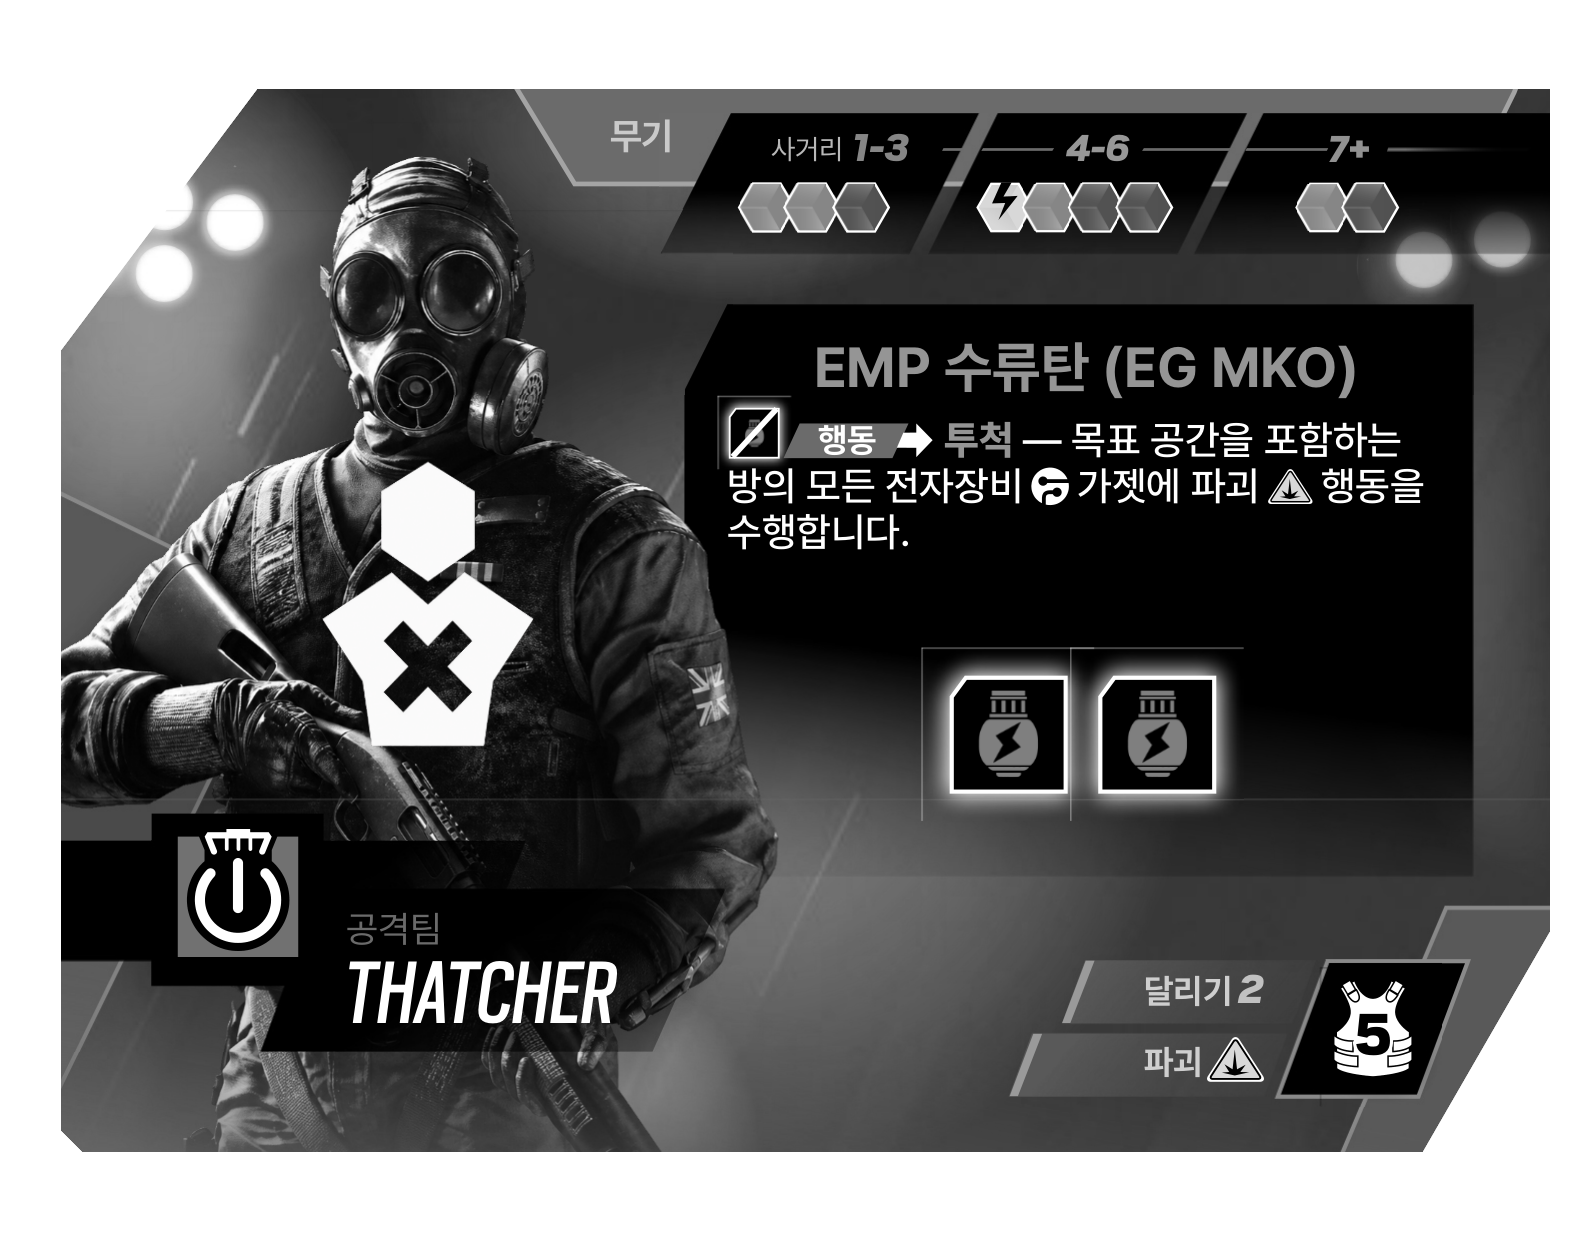
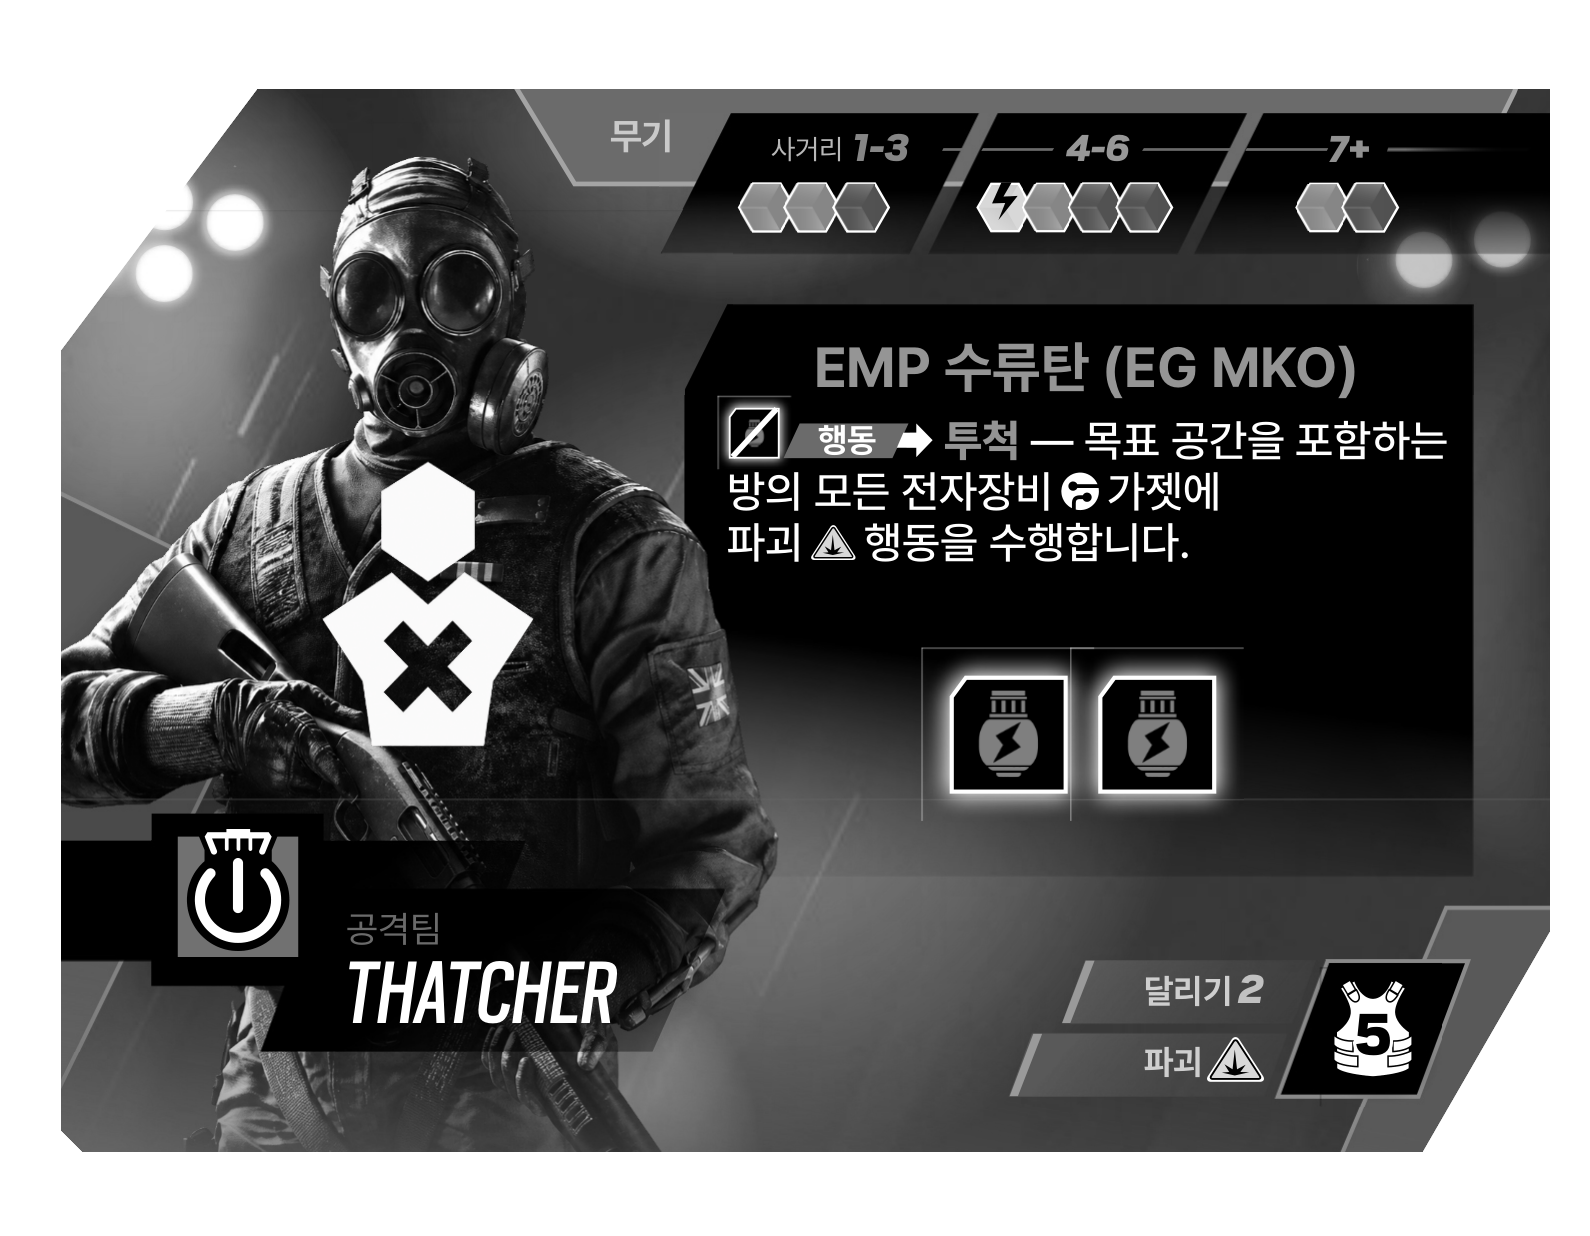
Body size rule: 44 when space allows, else 42/40; re-typeset SLEDGE, THATCHER, THERMITE
Claude-Session: https://claude.ai/code/session_01PWfnpsEVz5A5HNsqMNiVFq

Changed region(s): [[0.4623, 0.3382, 0.9245, 0.4612]]

diff --git a/tools/sledge/build.py b/tools/sledge/build.py
@@ -1,45 +1,20 @@
 import sys; sys.path.insert(0, '../lib')
-from typeset import *
-from PIL import Image
-import numpy as np
-ALPHA = np.array(Image.open('/home/user/2025-/ace_first_front.png'))[..., 3]
-
-W, B, BL = 'Medium', 'ExtraBold', hexc('#7899ce')
-WH = (255, 255, 255)
+from card import *
+W, B = 'Medium', 'ExtraBold'
+BL = hexc('#7899ce')
 icon = Image.open('icon_destroy.png').convert('RGBA'); icon = icon.crop(icon.getchannel('A').getbbox())
-TITLE = sys.argv[1] if len(sys.argv) > 1 else '파쇄망치 (The Caber)'
-GADGET = '파쇄망치'
-
-p1 = [('t', 'SLEDGE는 기울이기 상태에서는 ' + GADGET + '를 사용할 수 없습니다.', W, WH)]
-BR = ('br',)
-p2 = [('t', '배치,', B, BL), ('t', ' 얇은 벽 또는', W, BL), BR, ('t', '바리케이드 중 1개를 무시', W, BL), ('t', ' —', W, WH), BR,
-      ('t', '목표 공간에서 파괴', W, WH), ('i', icon), ('t', '행동을 수행한 다음', W, WH), BR,
-      ('t', '자신의 미니어처를 그곳에 놓습니다.', W, WH), BR,
-      ('t', '그 후 새 위치에 인접한 공간 한 곳에서', W, WH), BR,
-      ('t', '사격 및/또는 파괴', W, WH), ('i', icon), ('t', '행동을', W, WH), BR,
-      ('t', '수행할 수 있습니다.', W, WH)]
-
-def build(bg_path, back, out):
-    img = Image.open(bg_path).convert('RGBA')
-    cf = gray if back else (lambda c: c)
-    icf = gray_img if back else (lambda im: im)
-    rep = {}
-    # labels
-    rep['무기'] = draw_label(img, '무기', F('Bold', 37), cf(hexc('#cacaca')), cx=(579+704)/2, cy=(123+150)/2)
-    rep['사거리'] = draw_label(img, '사거리', F('Regular', 28), cf(hexc('#b9b8b8')), right=844, cy=(137+161)/2)
-    rep['달리기'] = draw_label(img, '달리기', F('Bold', 34), cf(hexc('#cecece')), right=1232, cy=(979+1003)/2)
-    rep['파괴'] = draw_label(img, '파괴', F('Bold', 34), cf(hexc('#cecece')), right=1215, cy=(1052+1076)/2)
-    rep['공격팀'] = draw_label(img, '공격팀', F('Regular', 37), cf(hexc('#3676b9')), left=346, cy=(911+946)/2)
-    rep['행동'] = draw_label(img, '행동', F('Bold', 34), WH, cx=(874+966)/2, cy=534)
-    rep['title'] = draw_label(img, TITLE, F('Bold', 56), cf(hexc('#7798cd')), cx=1086, cy=348)
-    L1 = layout(p1, x_first=751, x_rest=751, right=1460)
-    rep['p1'] = render_lines(img, L1, cy_first=417, pitch=46, colorfn=cf, iconfn=icf)
-    L2 = layout(p2, x_first=1037, x_rest=801, right=1460)
-    rep['p2'] = render_lines(img, L2, cy_first=534, pitch=46, colorfn=cf, iconfn=icf)
-    a = np.array(img); a[..., 3] = ALPHA; a[ALPHA == 0, :3] = 0
-    Image.fromarray(a, 'RGBA').save(out, dpi=(300, 300))
-    return rep
-
-if __name__ == '__main__':
-    r = build('bg_0.png', False, 'sledge_front.png'); [print(k, v) for k, v in r.items()]
-    build('bg_1.png', True, 'sledge_back.png')
+N = ' '
+labels = dict(WEAPONS=(579,123,704,150), RANGE=(744,137,844,161), RUN=(1164,979,1232,1003), DESTROY=(1065,1052,1215,1076),
+              TEAM=(346,911,482,946), ACTION=(874,517,966,551))
+title = dict(text='파쇄망치 (The Caber)', cx=1086, cy=348, color='#7798cd')
+p1 = [('t', 'SLEDGE는 기울이기 상태에서는 파쇄망치를 사용할 수 없습니다.', W, WH)]
+p2 = [('t', '배치,', B, BL), ('t', ' 얇은 벽 또는 바리케이드 중 1개를' + N + '무시', W, BL), ('t', ' —', W, WH),
+      ('t', ' 목표' + N + '공간에서 파괴', W, WH), ('i', icon), ('t', '행동을 수행한 다음 자신의 미니어처를 그곳에 놓습니다.', W, WH),
+      ('t', ' 그' + N + '후 새 위치에 인접한 공간' + N + '한' + N + '곳에서 사격' + N + '및/또는 파괴', W, WH), ('i', icon), ('t', '행동을' + N + '수행할' + N + '수' + N + '있습니다.', W, WH)]
+paras = [dict(runs=p1, x_first=751, x_rest=751, cy=417, limit=517-12),
+         dict(runs=p2, x_first=1037, x_rest=801, cy=534)]
+size, paras = fit_size(paras, bottom_limit=939)
+print('size', size)
+for bg, back, out in (('bg_0.png', False, 'sledge_front.png'), ('bg_1.png', True, 'sledge_back.png')):
+    r = build(bg, back, out, labels=labels, title=title, paras=paras)
+    if not back: [print(k, v) for k, v in r.items() if k.startswith('p')]

diff --git a/tools/thermite/build.py b/tools/thermite/build.py
@@ -7,11 +7,11 @@ elec, dest = ico('icon_elec.png'), ico('icon_destroy.png')
 labels = dict(WEAPONS=(579,123,704,150), RANGE=(744,137,844,161), RUN=(1164,979,1232,1003), DESTROY=(1065,1052,1215,1076),
               TEAM=(346,911,482,946), ACTION=(792,425,883,458))
 title = dict(text='발열성 폭약 (BC-3)', cx=1086, cy=(330+359)/2, color='#3977ba')
-BR = ('br',)
-runs = [('t', '배치', B, BL), ('t', ' — 목표로 지정한 공간과', W, WH), BR, ('t', '그 공간에 인접한 모든 공간에서', W, WH), BR,
-        ('t', '파괴', W, WH), ('i', dest), ('t', '행동을 수행합니다. 칸막이는', W, WH), BR,
-        ('t', '발열성 폭약의 효과 범위를 차단하지 않습니다.', W, WH)]
+runs = [('t', '배치', B, BL), ('t', ' — 목표로 지정한 공간과 그\u00a0공간에 인접한 모든 공간에서 파괴', W, WH), ('i', dest),
+        ('t', '행동을 수행합니다.', W, WH), ('br',), ('t', '칸막이는 발열성\u00a0폭약의 효과 범위를 차단하지\u00a0않습니다.', W, WH)]
 paras = [dict(runs=runs, x_first=949, x_rest=728, cy=441.5)]
+size, paras = fit_size(paras, bottom_limit=685)
+print('size', size)
 for bg, back, out in (('bg_0.png', False, 'thermite_front.png'), ('bg_1.png', True, 'thermite_back.png')):
     r = build(bg, back, out, labels=labels, title=title, paras=paras, title_icon=elec)
     if not back: [print(k, v) for k, v in r.items()]

diff --git a/tools/thatcher/build.py b/tools/thatcher/build.py
@@ -10,6 +10,8 @@ labels = dict(WEAPONS=(579,123,704,150), RANGE=(744,137,844,161), RUN=(1164,979,
 title = dict(text='EMP 수류탄 (EG MKO)', cx=1086, cy=(356+386)/2, color='#7899ce')
 runs = [('t', '투척', B, BL), ('t', ' — 목표 공간을 포함하는 방의 모든 전자장비', W, WH), ('i', elec), ('t', '가젯에 파괴', W, WH), ('i', dest), ('t', '행동을 수행합니다.', W, WH)]
 paras = [dict(runs=runs, x_first=944, x_rest=727, cy=440.5)]
+size, paras = fit_size(paras, bottom_limit=648)
+print('size', size)
 for bg, back, out in (('bg_0.png', False, 'thatcher_front.png'), ('bg_1.png', True, 'thatcher_back.png')):
     r = build(bg, back, out, labels=labels, title=title, paras=paras)
     if not back: [print(k, v) for k, v in r.items()]
